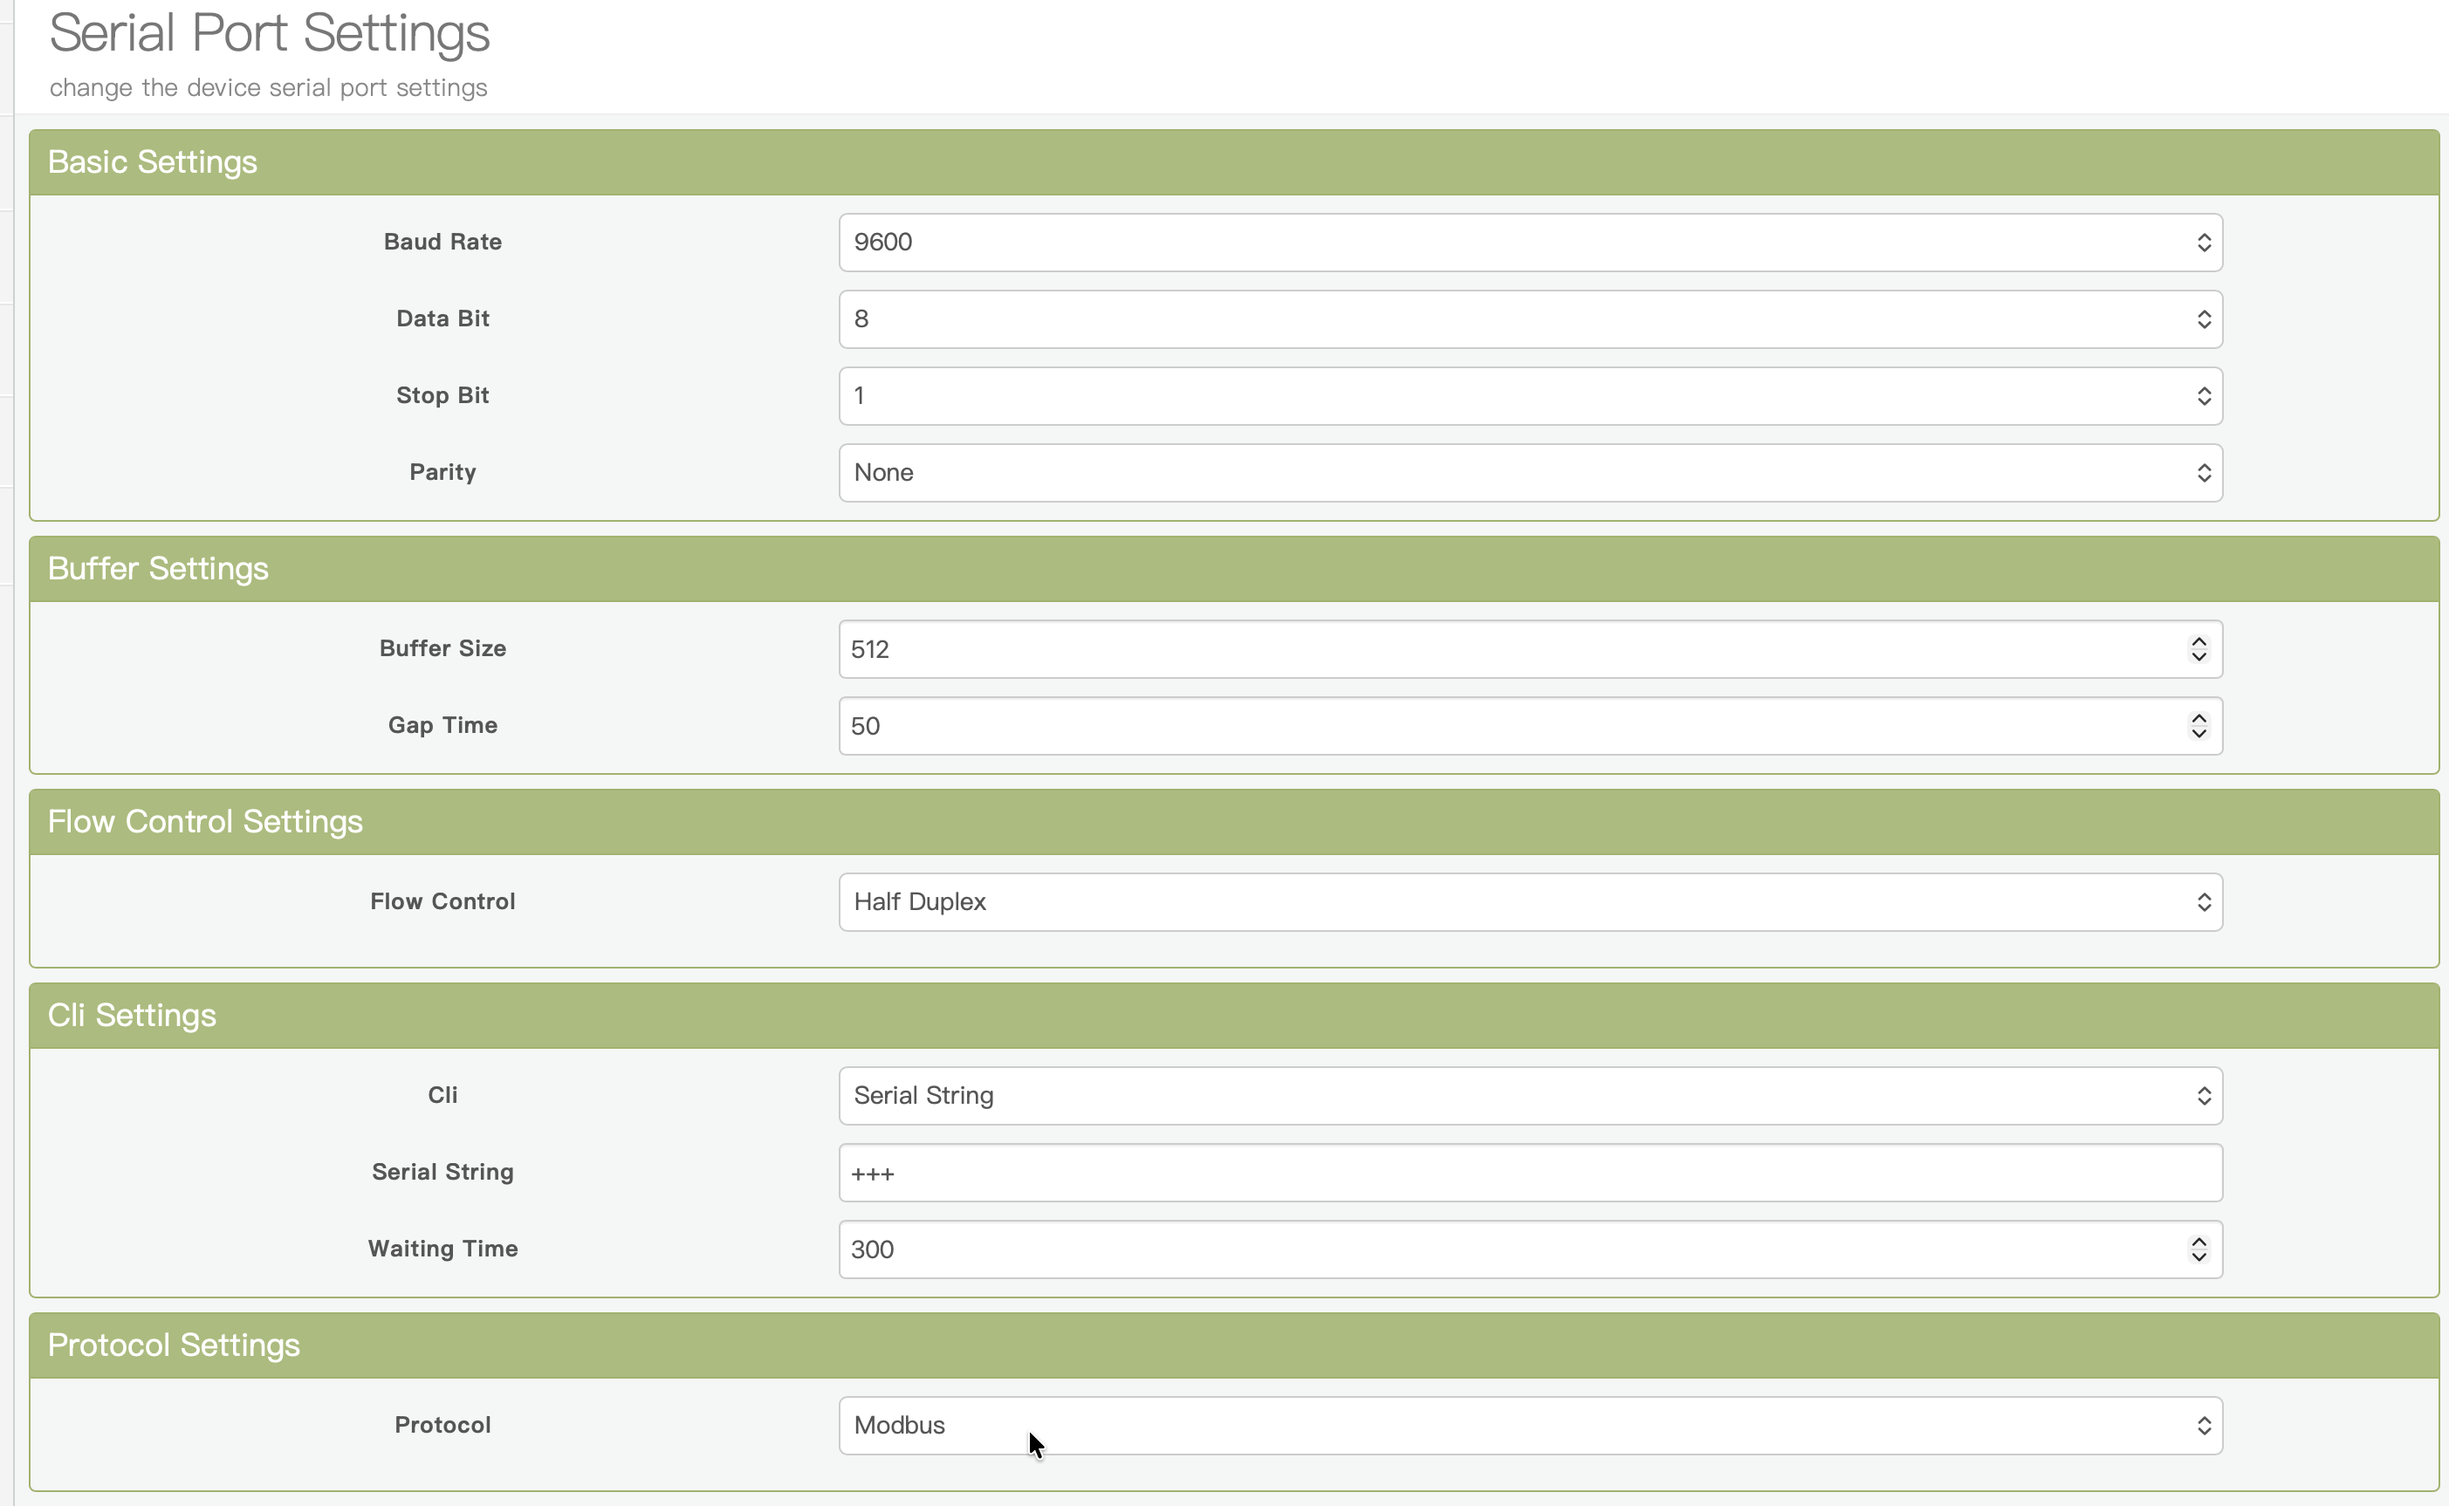
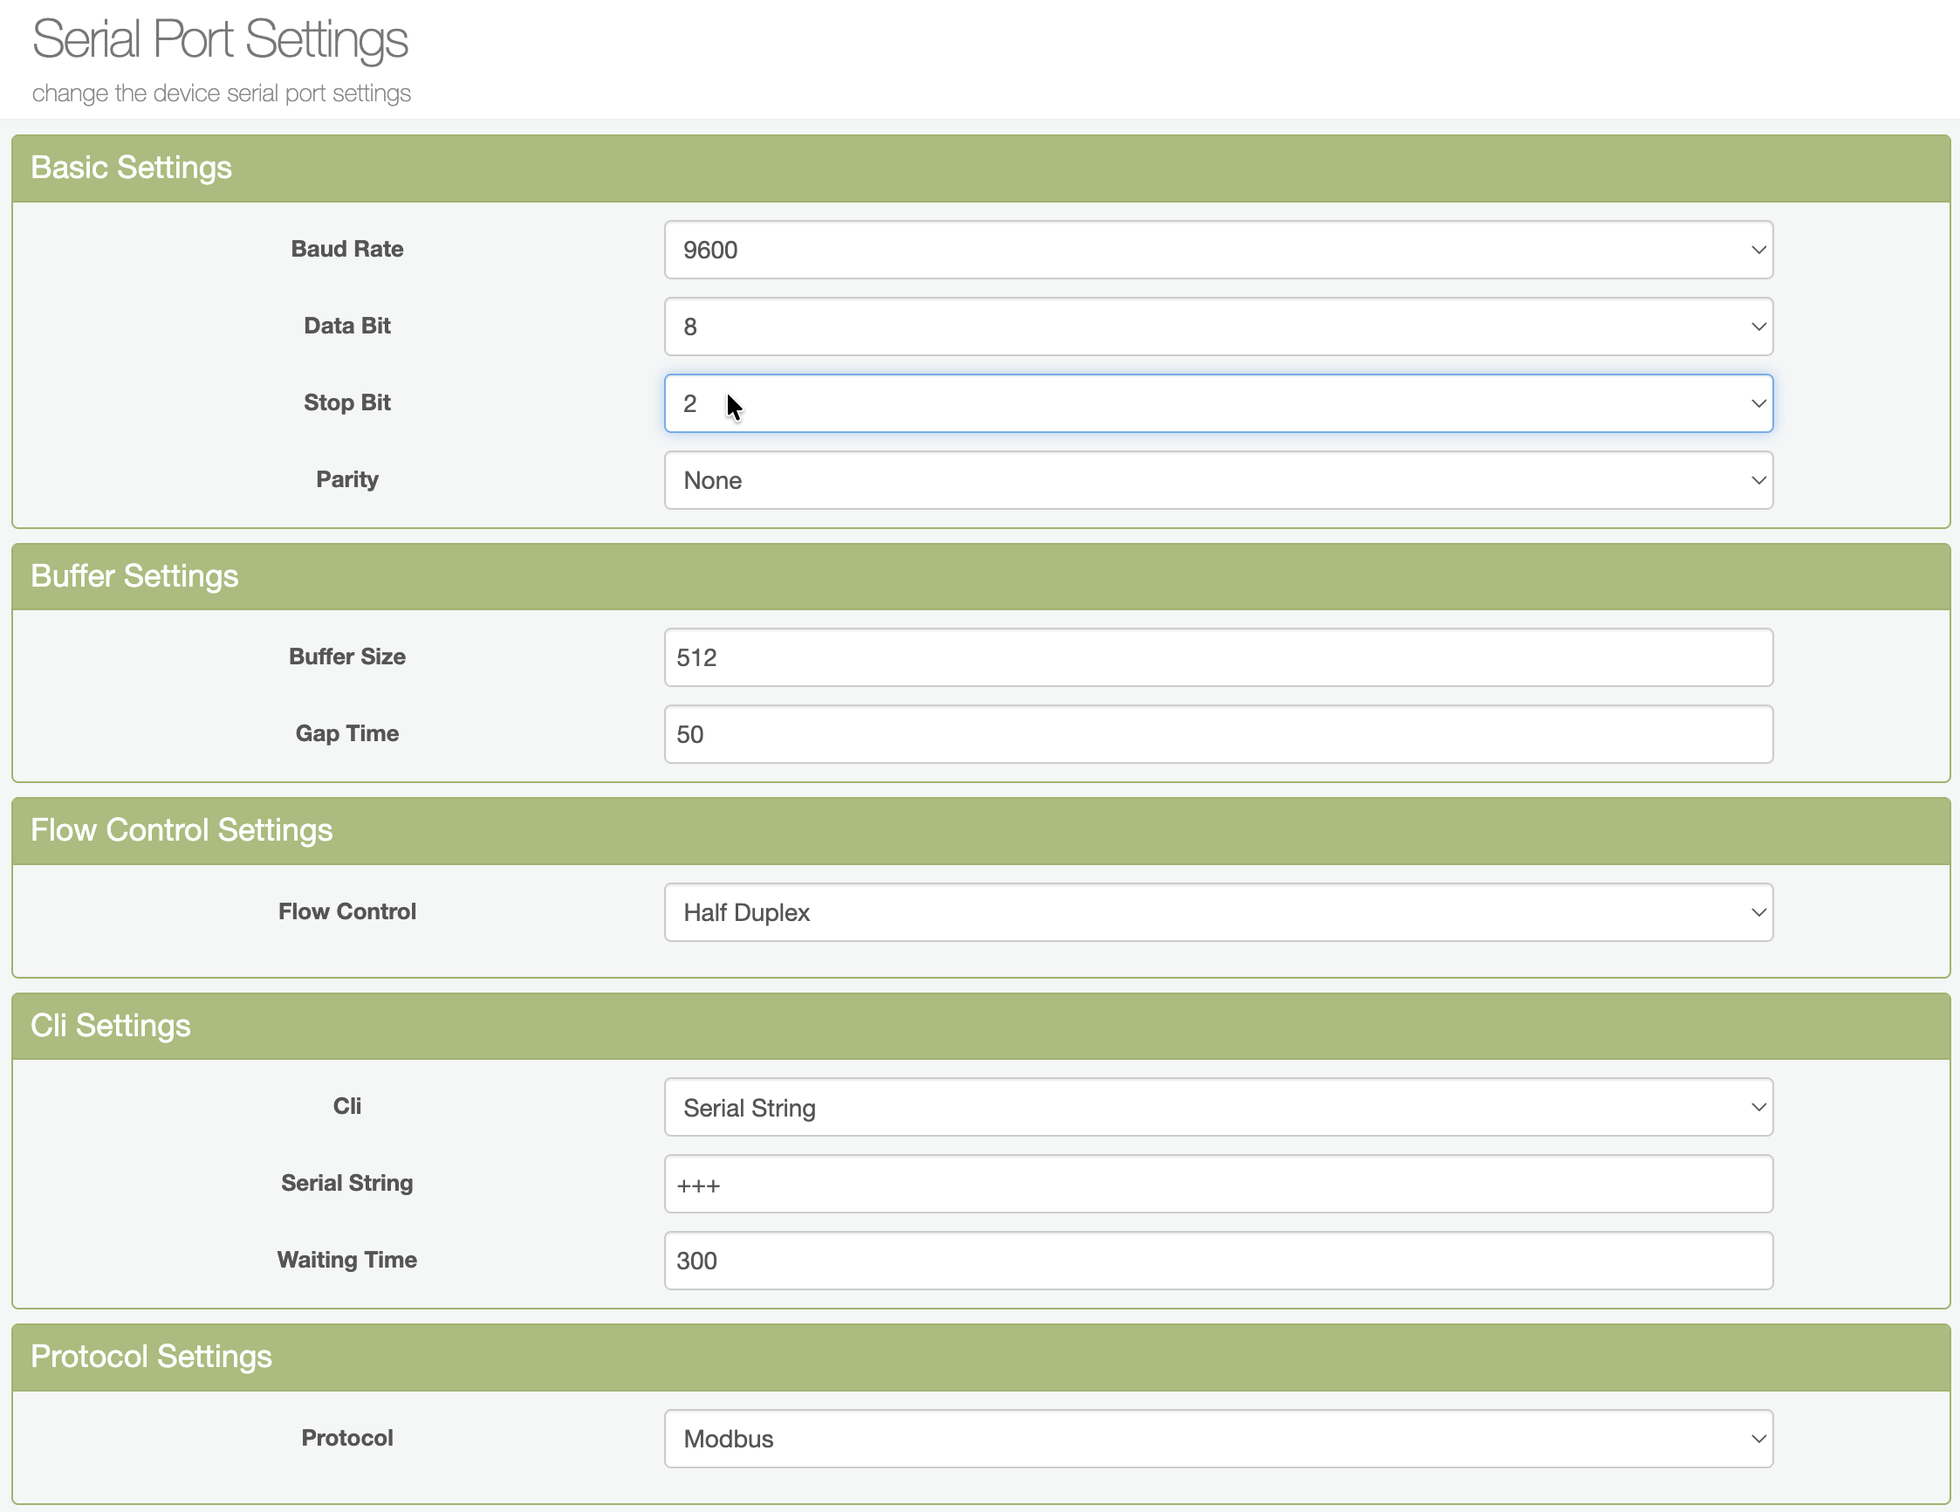
Elfin-gids: Aurora III-screenshots gecorrigeerd
In de bron waren twee van de drie Aurora III-screenshots verkeerd:
- "serial port settings - Aurora III" toonde het Aurora II-scherm (Stop Bit 1);
  vervangen door het echte Aurora III-scherm (Stop Bit 2), dat in de bron als
  "communication settngs - Aurora III" was opgeslagen
- "system settings - Aurora III" was byte-identiek aan het Aurora II-scherm;
  verwijderd

De gids verwijst voor Communication en System Settings naar één gedeeld
screenshot; alleen Serial Port Settings verschilt per model.

Changed region(s): [[0.0, 0.0, 0.9973, 1.0], [0.1247, 0.7677, 0.2182, 0.7984]]

diff --git a/docs/setup/modbus-elfin-ew11-setup.md b/docs/setup/modbus-elfin-ew11-setup.md
@@ -37,13 +37,13 @@ Als er geen Modbus-verbinding komt, controleer dan eerst of `A/B` niet omgewisse
 
 ## EW11A configuratie
 
-Gebruik de screenshots van jouw model als referentie:
+Gebruik de screenshots als referentie. Alleen de seriële instellingen verschillen per model (Stop Bit `1` of `2`); de andere twee schermen zijn gelijk voor beide modellen:
 
 | Scherm | Aurora I / II | Aurora III / PRO |
 |---|---|---|
-| Serial Port Settings | [Aurora II](<Elfin EW11 - Adlar Aurora 2/EW11 - serial port settings - Aurora II series.png>) | [Aurora III](<Elfin EW11 - Adlar Aurora 3/EW11 - serial port settings - Aurora III.png>) |
-| Communication Settings | [Aurora II](<Elfin EW11 - Adlar Aurora 2/EW11 - communication settngs - Aurora II series.png>) | [Aurora III](<Elfin EW11 - Adlar Aurora 3/EW11 - communication settngs - Aurora III.png>) |
-| System Settings | [Aurora II](<Elfin EW11 - Adlar Aurora 2/EW11 - system settings - Aurora II series.png>) | [Aurora III](<Elfin EW11 - Adlar Aurora 3/EW11 - system settings - Aurora III.png>) |
+| Serial Port Settings | [Aurora II — Stop Bit 1](<Elfin EW11 - Adlar Aurora 2/EW11 - serial port settings - Aurora II series.png>) | [Aurora III — Stop Bit 2](<Elfin EW11 - Adlar Aurora 3/EW11 - serial port settings - Aurora III.png>) |
+| Communication Settings | [beide modellen](<Elfin EW11 - Adlar Aurora 2/EW11 - communication settngs - Aurora II series.png>) | [beide modellen](<Elfin EW11 - Adlar Aurora 2/EW11 - communication settngs - Aurora II series.png>) |
+| System Settings | [beide modellen](<Elfin EW11 - Adlar Aurora 2/EW11 - system settings - Aurora II series.png>) | [beide modellen](<Elfin EW11 - Adlar Aurora 2/EW11 - system settings - Aurora II series.png>) |
 
 ## Wifi-verbinding
 
